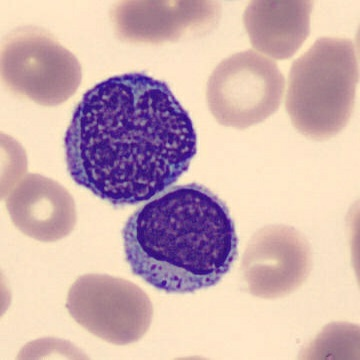
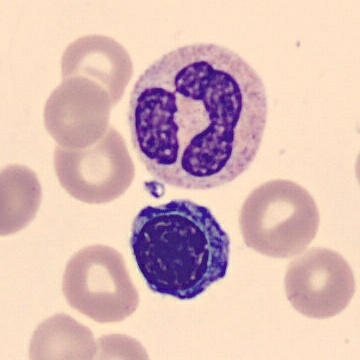
quality cells

diff --git a/pages/1_Données.py b/pages/1_Données.py
@@ -137,14 +137,10 @@ Les images du dataset PBC présentent globalement une bonne qualité :
 - Contraste homogène
 - Cellules centrées
  
-Cependant, quelques images contiennent plusieurs cellules nuclées.
-Les analyses Grad-CAM ont montré que certains modèles focalisent parfois leur attention sur une cellule secondaire.
- 
+Cependant, quelques images contiennent plusieurs cellules nuclées ou sont dépourvues de la cellule cible.
 Il est également à noter qu'une faible proportion d'images présentent un fond rose (2.6 %) .
 """)
- 
-captions = ["Cellules doubles", "Cellules multiples", "Variation de coloration"]
- 
+  
 vspace(20)
 cols = st.columns(5)
 for i, (key, path) in enumerate(QUALITY_IMAGES.items()):

diff --git a/utils/config.py b/utils/config.py
@@ -65,7 +65,7 @@ ML_MODELS_DIR = "./models/ml"
 
 QUALITY_IMAGES = {
     "Cellules doubles": f"{QUALITY_DIR}/doubles.jpg",
-    "Cellules multiples": f"{QUALITY_DIR}/multiples.jpg",
+    "Absence de cellule cible": f"{QUALITY_DIR}/nocells.jpg",
     "Variation de coloration": f"{QUALITY_DIR}/variationcoloration.jpg",
 }
 